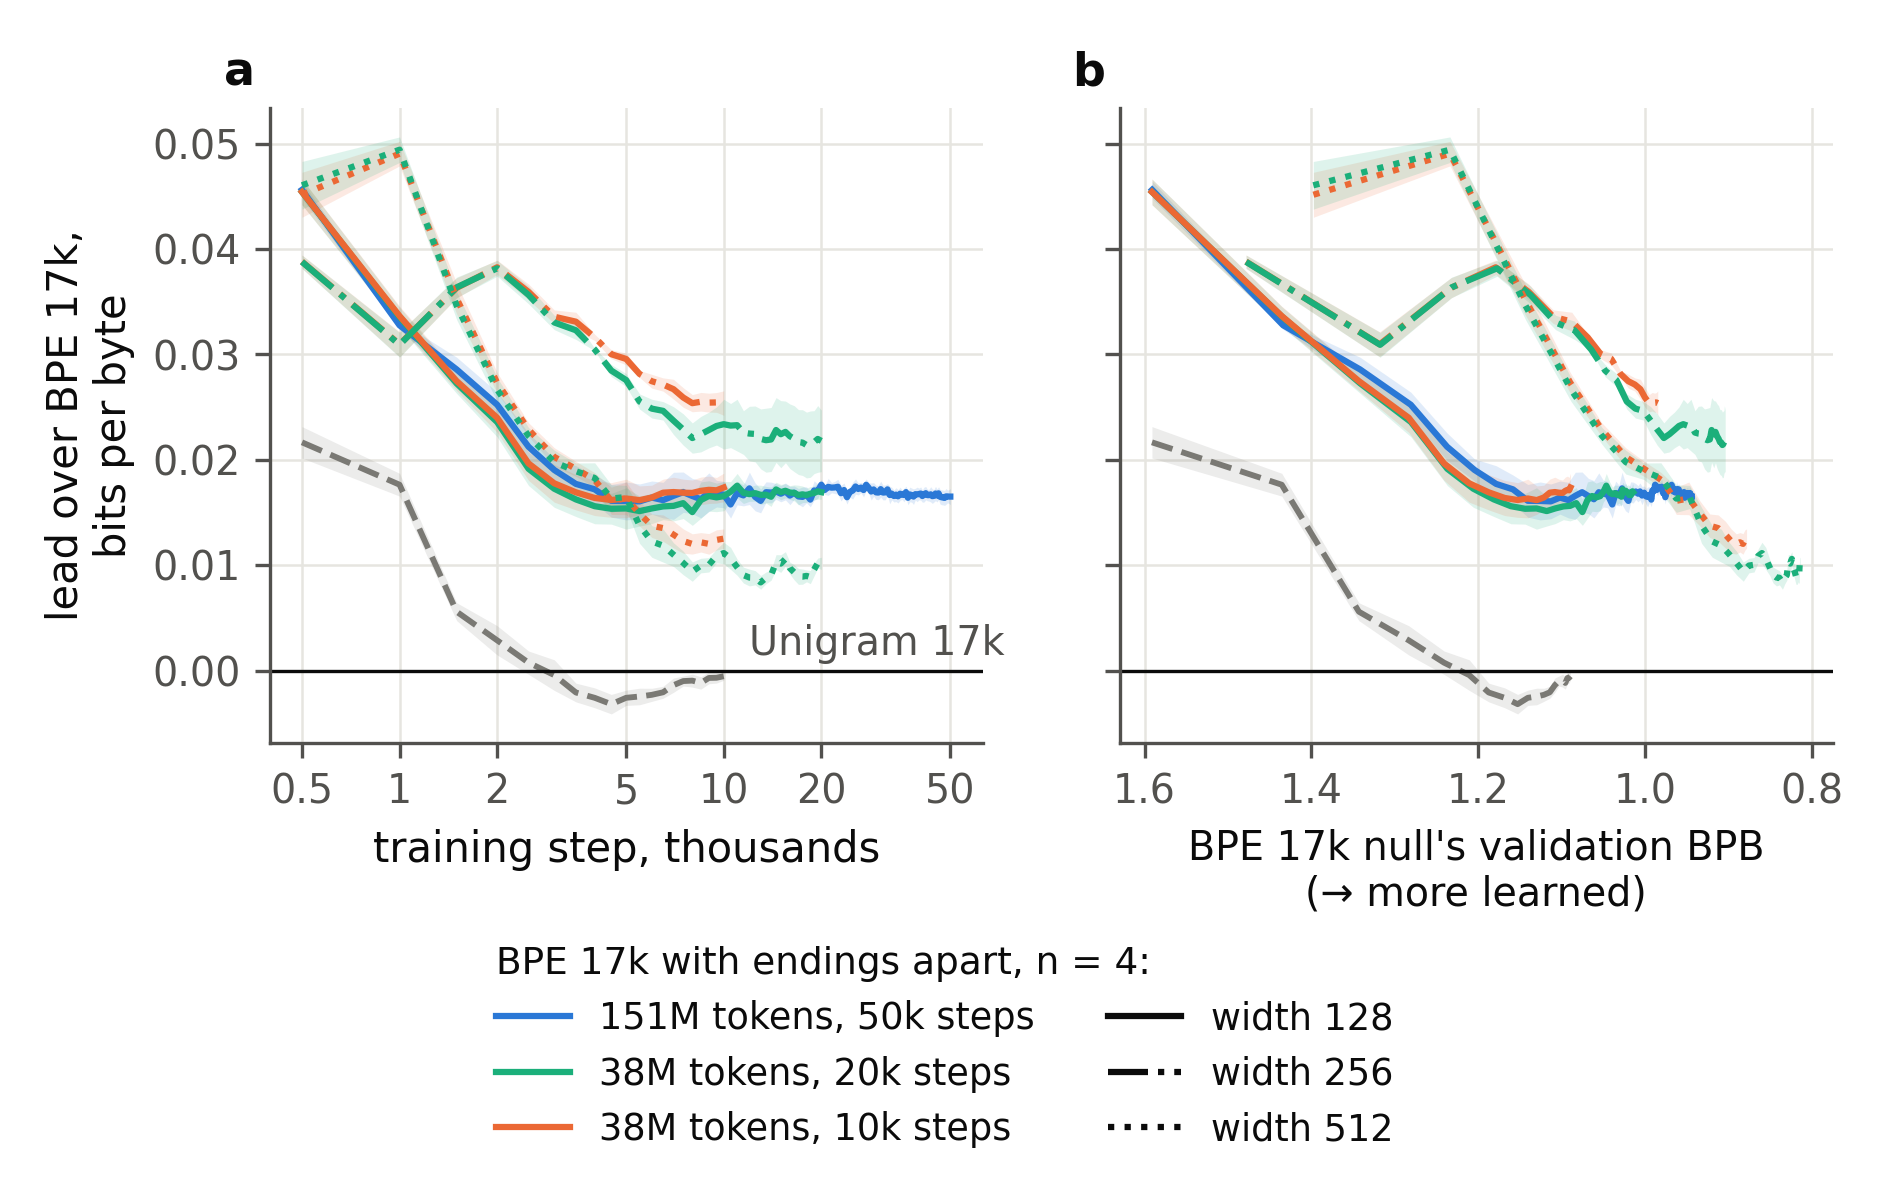
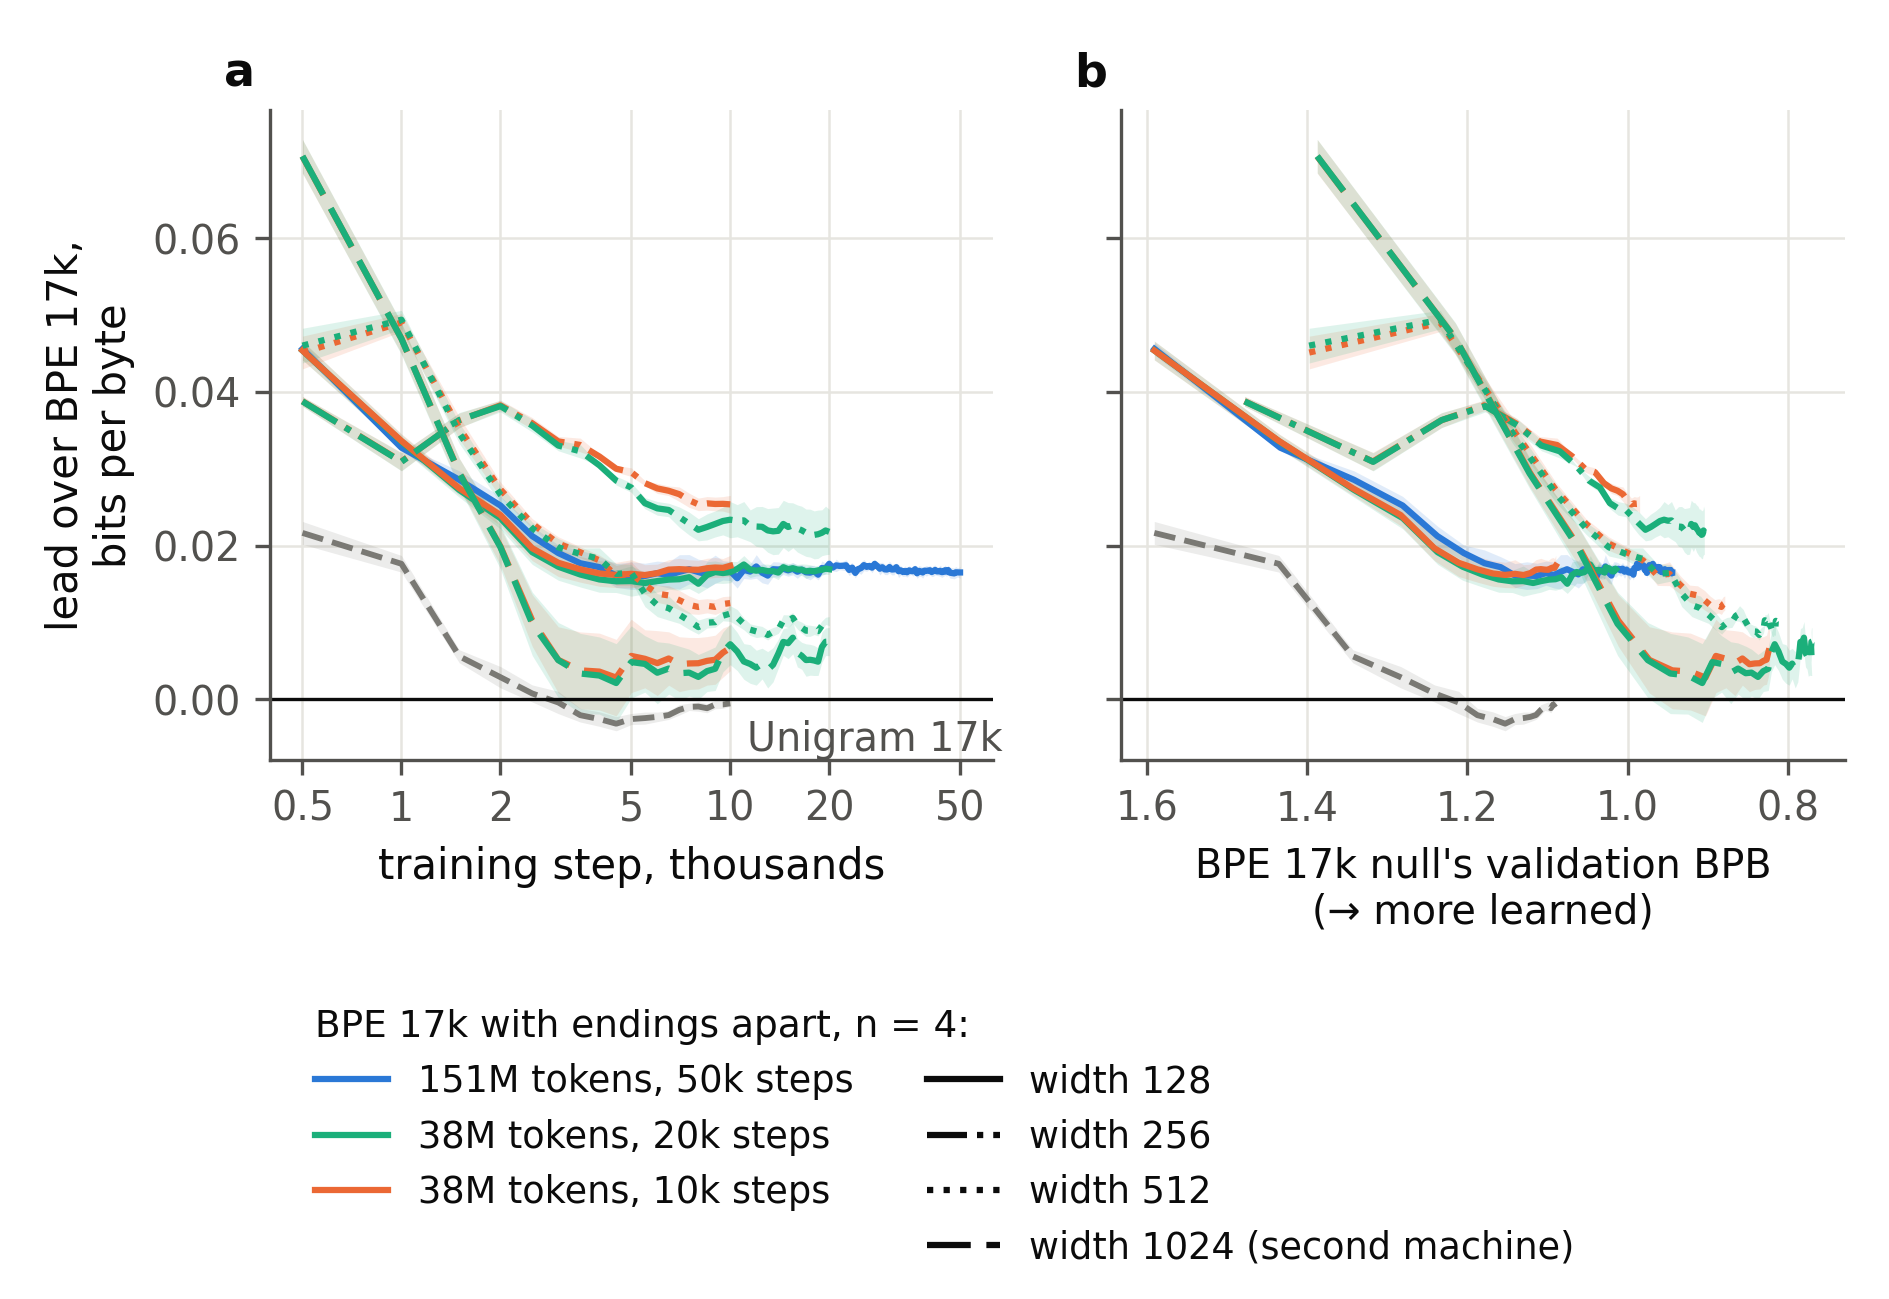
exports/: the tokenizer figure gains width 1024's lines, their band showing the split
What changes for the thesis:
- exports/figures/{uk,en}/fig_tokenizer.png: width 1024 at 10k and 20k (journey §33.120-§33.124),
  in a fourth line style, long dashes; its band, the standard error over four seeds, is wide where
  two seeds of four lose the gain early in training. Its legend key names the second machine,
  where all its runs ran ("ширина 1024 (друга машина)").
- The legend keeps colour (corpus and budget) and line style (width) in a column each; the figure
  is 1 cm taller for the fourth width; Unigram 17k's label moved under the zero line past its
  line's end, clear of the width-1024 lines.
- No number changed.

diff --git a/scripts/analysis/thesis_figures.py b/scripts/analysis/thesis_figures.py
@@ -16,7 +16,8 @@ controls and contrasts in grey.
   fig_law_english   English part of speech's: by schedule, and by model width
   fig_tokenizer     BPE 17k with endings apart against BPE 17k, null against null,
                     along training and against the reference null's BPB, with
-                    Unigram 17k for contrast
+                    Unigram 17k for contrast; width 1024's runs are all the second
+                    machine's, and its legend key says so
 
 A figure is drawn only if every run it is planned to show exists (as in
 demo_figures.py): one that silently dropped points would read as another result.
@@ -77,6 +78,7 @@ EN = lambda f: f'bpe_{f}-LEARN-CAUSAL_bpe_17k'
 UK = lambda f, fr='0.2', x='': TOK(f, 'bpe_uk_17k', fr, x)
 T = lambda f, t: TOK(f, t)
 U5 = lambda f, x='': UK(f, '0.05', x)
+LONG_DASH = (0, (7, 2.5))      # width 1024: a fourth line style after '-', '-.', ':' (Unigram's grey '--' is shorter)
 
 TXT = {
     'uk': {
@@ -119,10 +121,13 @@ TXT = {
                 ('38 млн токенів, 10 тис. кроків, ширина 256', '0.05', '_st10k_w256', 1, '-.'),
                 ('38 млн токенів, 20 тис. кроків, ширина 256', '0.05', '_st20k_w256', 2, '-.'),
                 ('38 млн токенів, 10 тис. кроків, ширина 512', '0.05', '_st10k_w512', 1, ':'),
-                ('38 млн токенів, 20 тис. кроків, ширина 512', '0.05', '_st20k_w512', 2, ':')],
+                ('38 млн токенів, 20 тис. кроків, ширина 512', '0.05', '_st20k_w512', 2, ':'),
+                ('38 млн токенів, 10 тис. кроків, ширина 1024', '0.05', '_st10k_w1024', 1, LONG_DASH),
+                ('38 млн токенів, 20 тис. кроків, ширина 1024', '0.05', '_st20k_w1024', 2, LONG_DASH)],
         'tok_keys': [('151 млн токенів, 50 тис. кроків', 0), ('38 млн токенів, 20 тис. кроків', 2),
                      ('38 млн токенів, 10 тис. кроків', 1)],
-        'tok_widths': [('ширина 128', '-'), ('ширина 256', '-.'), ('ширина 512', ':')],
+        'tok_widths': [('ширина 128', '-'), ('ширина 256', '-.'), ('ширина 512', ':'),
+                       ('ширина 1024 (друга машина)', LONG_DASH)],
         'unigram': 'Unigram 17k',
     },
     'en': {
@@ -151,9 +156,12 @@ TXT = {
                 ('38M tokens, 10k steps, width 256', '0.05', '_st10k_w256', 1, '-.'),
                 ('38M tokens, 20k steps, width 256', '0.05', '_st20k_w256', 2, '-.'),
                 ('38M tokens, 10k steps, width 512', '0.05', '_st10k_w512', 1, ':'),
-                ('38M tokens, 20k steps, width 512', '0.05', '_st20k_w512', 2, ':')],
+                ('38M tokens, 20k steps, width 512', '0.05', '_st20k_w512', 2, ':'),
+                ('38M tokens, 10k steps, width 1024', '0.05', '_st10k_w1024', 1, LONG_DASH),
+                ('38M tokens, 20k steps, width 1024', '0.05', '_st20k_w1024', 2, LONG_DASH)],
         'tok_keys': [('151M tokens, 50k steps', 0), ('38M tokens, 20k steps', 2), ('38M tokens, 10k steps', 1)],
-        'tok_widths': [('width 128', '-'), ('width 256', '-.'), ('width 512', ':')],
+        'tok_widths': [('width 128', '-'), ('width 256', '-.'), ('width 512', ':'),
+                       ('width 1024 (second machine)', LONG_DASH)],
         'unigram': 'Unigram 17k',
     },
 }
@@ -316,23 +324,23 @@ def fig_law_english(R, t, path):
 
 
 def fig_tokenizer(R, t, path):
-    fig, (a, b) = plt.subplots(1, 2, figsize=(WIDTH, 10.0 * CM), sharey=True)
+    fig, (a, b) = plt.subplots(1, 2, figsize=(WIDTH, 11.0 * CM), sharey=True)
     for name, fr, x, k, ls in t['tok']:
         pts = lead(R, TOK('mconst', 'bpe_uk_17k', fr, x), TOK('mconst', 'bpeend_uk_17k', fr, x))
         st_, rb, m, e = [p[0] for p in pts], [p[1] for p in pts], [p[2] for p in pts], [p[3] for p in pts]
         for ax, xs in ((a, st_), (b, rb)):
-            ax.plot(xs, m, ls, color=SERIES[k], lw=1.5)
+            ax.plot(xs, m, linestyle=ls, color=SERIES[k], lw=1.5)
             ax.fill_between(xs, [u - v for u, v in zip(m, e)], [u + v for u, v in zip(m, e)], color=SERIES[k], alpha=0.14, lw=0)
     pts = lead(R, TOK('mconst', 'bpe_uk_17k'), TOK('mconst', 'unigram_uk_17k'))
     st_, rb, m, e = [p[0] for p in pts], [p[1] for p in pts], [p[2] for p in pts], [p[3] for p in pts]
     for ax, xs in ((a, st_), (b, rb)):
         ax.plot(xs, m, '--', color=GREY, lw=1.4)
         ax.fill_between(xs, [u - v for u, v in zip(m, e)], [u + v for u, v in zip(m, e)], color=GREY, alpha=0.14, lw=0)
-    # the contrast is labelled on its line, not in the legend (n = 4 as well)
-    # at the line's end, where nothing else runs (at step 2,000 it met the width-512 lines)
-    i2 = len(st_) - 1
-    a.annotate(t['unigram'], xy=(st_[i2], m[i2]), xytext=(6, 3), textcoords='offset points', color=MUTED,
-               fontsize=9.5, va='bottom', ha='left')
+    # the contrast is labelled on its line, not in the legend (n = 4 as well): past its end and under
+    # the zero line, where nothing else runs (beside its end run the width-1024 lines, at step 2,000
+    # the width-512 ones)
+    a.annotate(t['unigram'], xy=(st_[-1], m[-1]), xytext=(4, -4), textcoords='offset points', color=MUTED,
+               fontsize=9.5, va='top', ha='left')
     step_axis(a, t['lang'], 50000)
     b.invert_xaxis()
     numbers(b, t['lang'], 'x')
@@ -346,14 +354,16 @@ def fig_tokenizer(R, t, path):
         ax.set_axisbelow(True)
         letter(ax, ch)
     # two keys, not one entry per line: colour is the corpus and budget, the line style the width
-    # (seven lines' full names overflowed the figure in Ukrainian)
+    # (nine lines' full names overflowed the figure in Ukrainian); blank entries keep each key in its
+    # own column, which the legend fills top to bottom
     from matplotlib.lines import Line2D
-    keys = [Line2D([], [], color=SERIES[k], lw=1.5) for _, k in t['tok_keys']] + \
-           [Line2D([], [], color=INK, lw=1.5, ls=ls) for _, ls in t['tok_widths']]
-    fig.legend(keys, [n for n, _ in t['tok_keys']] + [n for n, _ in t['tok_widths']], title=t['tok_title'],
-               title_fontsize=9, loc='lower center', ncol=2, frameon=False, fontsize=8.8,
+    colours = [Line2D([], [], color=SERIES[k], lw=1.5) for _, k in t['tok_keys']]
+    widths = [Line2D([], [], color=INK, lw=1.5, ls=ls) for _, ls in t['tok_widths']]
+    blank = [Line2D([], [], lw=0)] * (len(widths) - len(colours))
+    fig.legend(colours + blank + widths, [n for n, _ in t['tok_keys']] + [''] * len(blank) + [n for n, _ in t['tok_widths']],
+               title=t['tok_title'], title_fontsize=9, loc='lower center', ncol=2, frameon=False, fontsize=8.8,
                bbox_to_anchor=(0.5, 0.0), alignment='left')
-    fig.tight_layout(rect=(0, 0.19, 1, 1), w_pad=1.2)
+    fig.tight_layout(rect=(0, 0.25, 1, 1), w_pad=1.2)
     fig.savefig(path)
     plt.close(fig)
 
